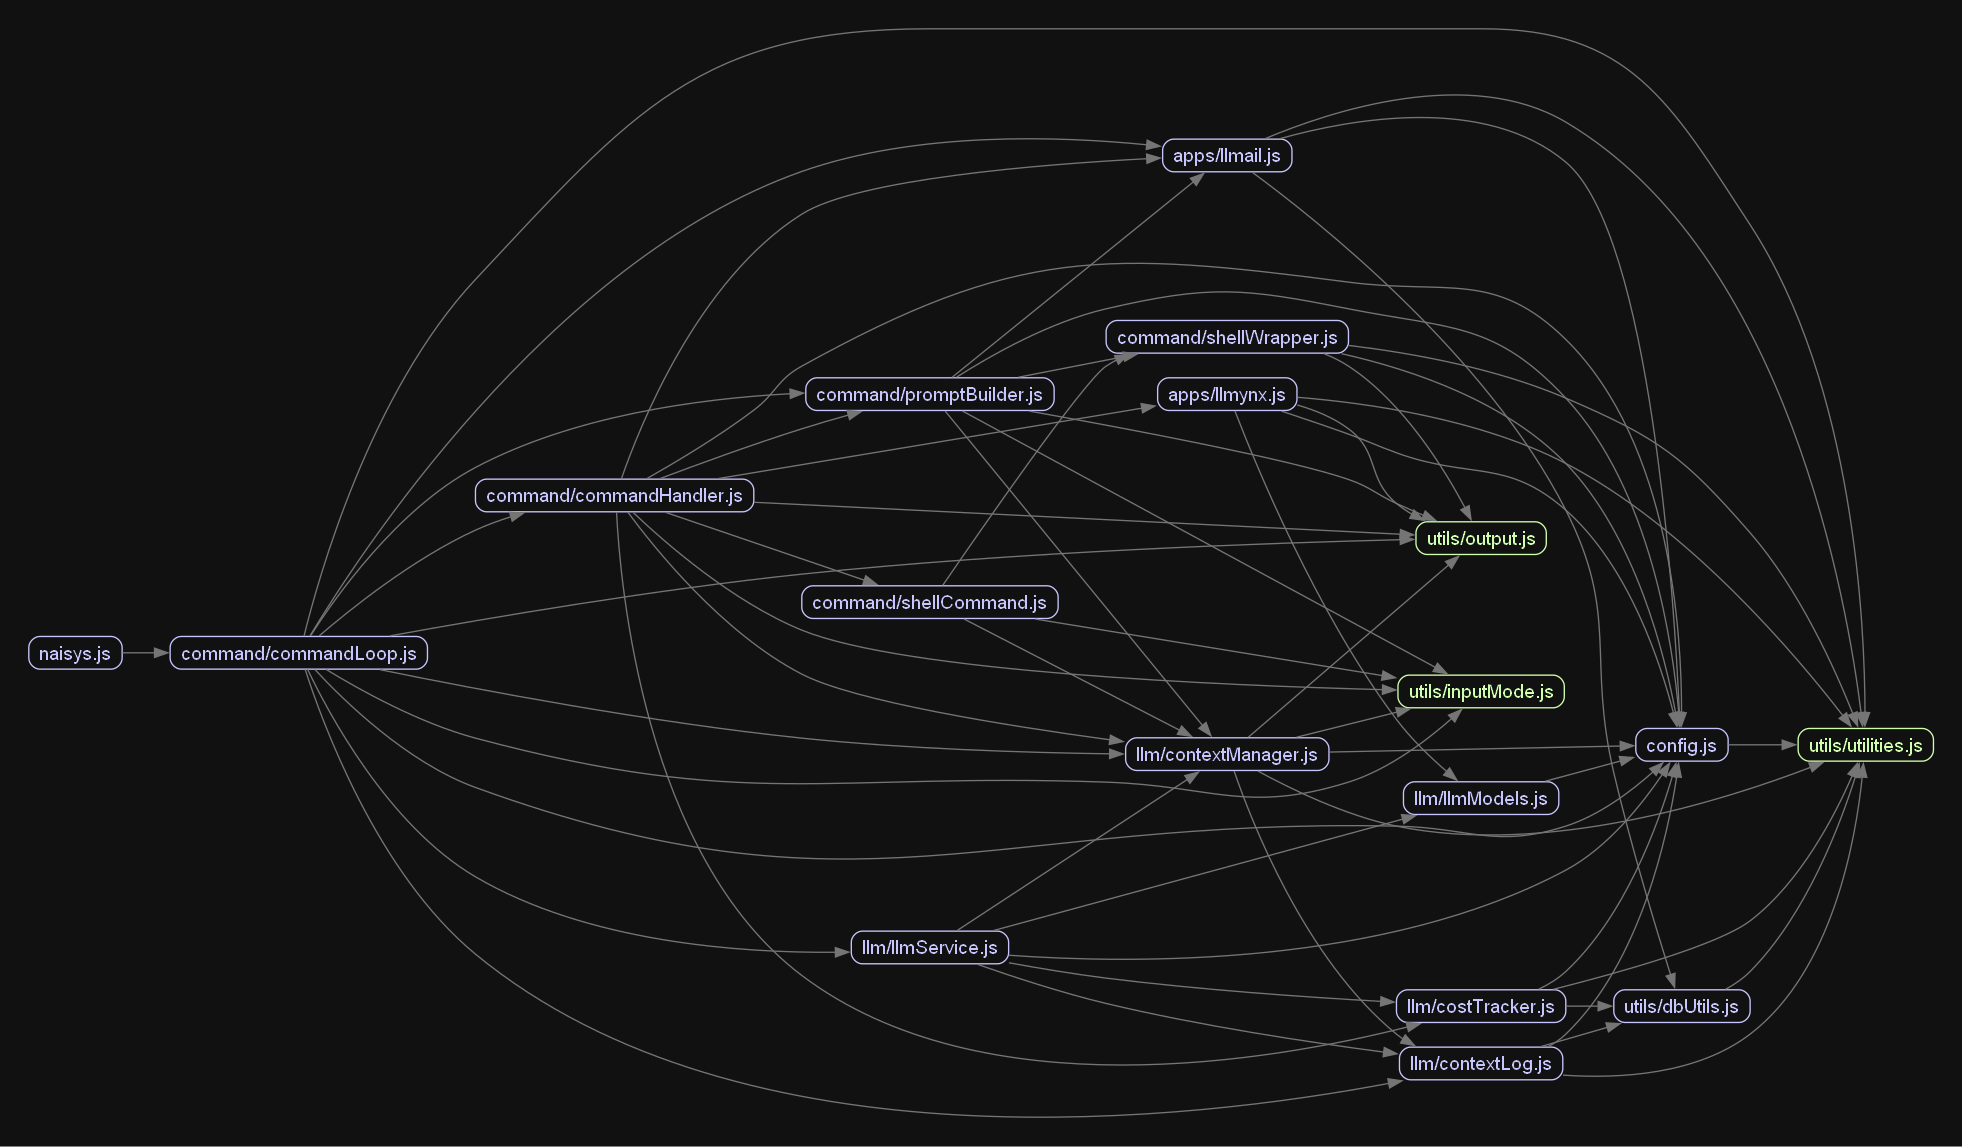
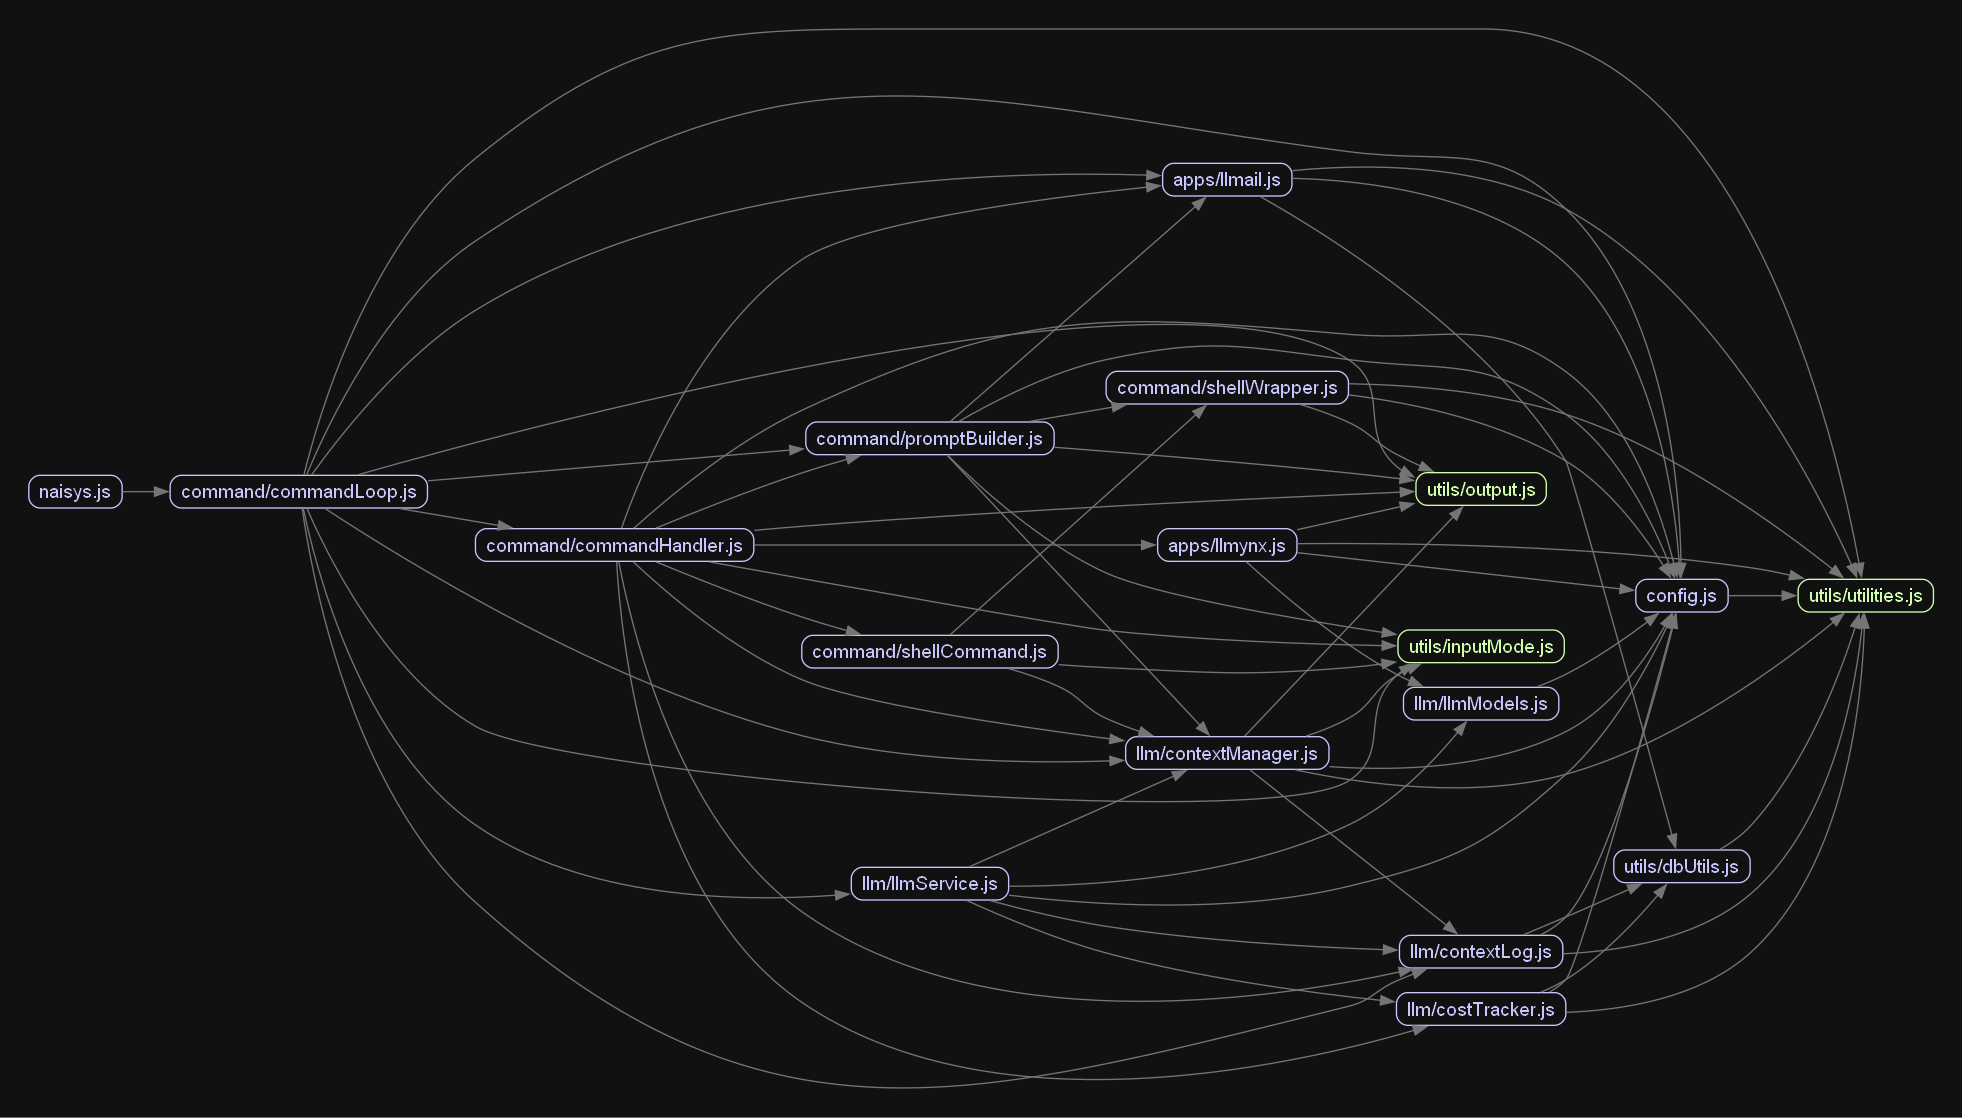
Load previous session note from log on start Direct llm to not mix special and standard commands

diff --git a/src/llm/contextLog.ts b/src/llm/contextLog.ts
@@ -45,6 +45,7 @@ async function init() {
     const createTables = [
       `CREATE TABLE ContextLog (
           id INTEGER PRIMARY KEY, 
+          username TEXT NOT NULL,
           role TEXT NOT NULL,
           message TEXT NOT NULL,
           date TEXT NOT NULL
@@ -83,10 +84,11 @@ function initLogFile(filePath: string) {
   );
 }
 
-export async function add(message: LlmMessage) {
+export async function write(message: LlmMessage) {
   await usingDatabase(async (db) => {
     const inserted = await db.run(
-      "INSERT INTO ContextLog (role, message, date) VALUES (?, ?, ?)",
+      "INSERT INTO ContextLog (username, role, message, date) VALUES (?, ?, ?, ?)",
+      config.agent.username,
       roleToString(message.role),
       message.content,
       new Date().toISOString(),
@@ -130,6 +132,25 @@ function appendToLogFile(filepath: string, message: LlmMessage) {
       </td>
     </tr>`,
   );
+}
+
+export function getPreviousEndSessionNote() {
+  // Find the most recent message in the log that starts with 'endsession' for the local user
+  return usingDatabase(async (db) => {
+    const result = await db.get(
+      `SELECT message 
+        FROM ContextLog 
+        WHERE username = ? AND message LIKE 'endsession %' 
+        ORDER BY id DESC 
+        LIMIT 1`,
+      [config.agent.username],
+    );
+
+    const endSessionMsg: string = result?.message;
+
+    // Trim endsession prefix
+    return endSessionMsg?.slice("endsession ".length) || "";
+  });
 }
 
 async function usingDatabase<T>(run: (db: Database) => Promise<T>): Promise<T> {

diff --git a/src/llm/contextManager.ts b/src/llm/contextManager.ts
@@ -23,6 +23,8 @@ export function getSystemMessage() {
   }
 
   // Fill out the templates in the agent prompt and stick it to the front of the system message
+  // A lot of the stipulations in here are to prevent common LLM mistakes
+  // Like we can't jump between standard and special commands in a single prompt, which the LLM will try to do if not warned
   let agentPrompt = config.agent.agentPrompt;
   agentPrompt = resolveTemplateVars(agentPrompt, "agent", config.agent);
   agentPrompt = resolveTemplateVars(agentPrompt, "env", process.env);
@@ -45,7 +47,8 @@ Commands:
   vi and nano are not supported
   Read/write entire files in a single command with cat
   Do not input notes after the prompt. Only valid commands.
-Special Commands:
+Special Commands: (Don't mix with standard commands on the same prompt)
+  llmail: A local mail system for communicating with your team
   comment <thought>: Any non-command output like thinking out loud, prefix with the 'comment' command
   pause <seconds>: Pause for <seconds> or indeterminite if no argument is provided. Auto wake up on new mail message
   endsession <note>: Ends this session, clears the console log and context.
@@ -116,7 +119,7 @@ export async function append(
 
   if (!combined) {
     const llmMessage = { role, content: text };
-    await contextLog.add(llmMessage);
+    await contextLog.write(llmMessage);
     messages.push(llmMessage);
   }
 

diff --git a/src/command/commandHandler.ts b/src/command/commandHandler.ts
@@ -2,6 +2,7 @@ import chalk from "chalk";
 import * as llmail from "../apps/llmail.js";
 import * as llmynx from "../apps/llmynx.js";
 import * as config from "../config.js";
+import * as contextLog from "../llm/contextLog.js";
 import * as contextManager from "../llm/contextManager.js";
 import { ContentSource } from "../llm/contextManager.js";
 import * as costTracker from "../llm/costTracker.js";
@@ -23,7 +24,7 @@ interface NextCommandResponse {
   pauseSeconds?: number;
 }
 
-export let previousSessionNotes = "";
+export let previousSessionNotes = await contextLog.getPreviousEndSessionNote();
 
 export async function consoleInput(
   prompt: string,
@@ -156,7 +157,7 @@ export async function consoleInput(
       }
 
       case "llmail": {
-        const mailResponse = await llmail.run(cmdArgs);
+        const mailResponse = await llmail.handleCommand(cmdArgs);
         await contextManager.append(mailResponse);
         break;
       }

diff --git a/src/command/promptBuilder.ts b/src/command/promptBuilder.ts
@@ -83,8 +83,9 @@ export function getInput(commandPrompt: string, pauseSeconds?: number) {
       // Fix is probably to reset the entire the question when the timeout is interrupted
       if (!expired) {
         let pausePos = commandPrompt.indexOf("[Paused:");
-        pausePos = pausePos == -1 ? commandPrompt.indexOf("[WakeOnMsg]") : pausePos;
-        
+        pausePos =
+          pausePos == -1 ? commandPrompt.indexOf("[WakeOnMsg]") : pausePos;
+
         if (pausePos > 0) {
           const charsBack = commandPrompt.length - pausePos - 1; // pluse 1 for the space after the #
           readline.moveCursor(process.stdout, -charsBack, 0);
@@ -96,7 +97,7 @@ export function getInput(commandPrompt: string, pauseSeconds?: number) {
 
     _readlineInterface.question(
       chalk.greenBright(commandPrompt),
-      { signal: ac.signal  },
+      { signal: ac.signal },
       (answer) => {
         resolve(answer);
       },

diff --git a/src/command/commandLoop.ts b/src/command/commandLoop.ts
@@ -19,7 +19,7 @@ export async function run() {
   output.comment("System Message:");
   const systemMessage = contextManager.getSystemMessage();
   output.write(systemMessage);
-  await contextLog.add({
+  await contextLog.write({
     role: LlmRole.System,
     content: systemMessage,
   });

diff --git a/src/apps/llmail.ts b/src/apps/llmail.ts
@@ -86,7 +86,7 @@ async function init() {
   });
 }
 
-export async function run(args: string): Promise<string> {
+export async function handleCommand(args: string): Promise<string> {
   const argParams = args.split(" ");
 
   if (!argParams[0]) {
